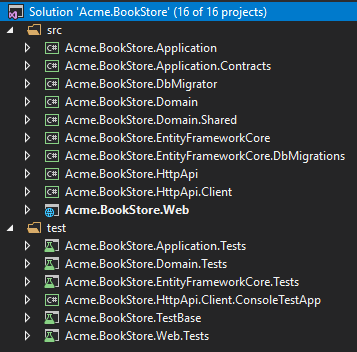
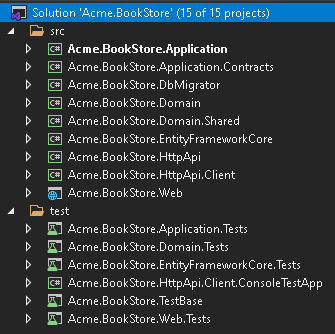
update startup-templates/application documentation
ref ( #9284 )

Changed region(s): [[0.0, 0.0, 1.0, 0.988]]

diff --git a/docs/en/Startup-Templates/Application.md b/docs/en/Startup-Templates/Application.md
@@ -128,20 +128,6 @@ This is the integration project for the EF Core. It defines the `DbContext` and 
 
 > This project is available only if you are using EF Core as the database provider. If you select another database provider, its name will be different.
 
-#### .EntityFrameworkCore.DbMigrations Project
-
-Contains EF Core database migrations for the solution. It has a separated `DbContext` to dedicated to manage migrations.
-
-ABP is a modular framework and with an ideal design, each module has its own `DbContext` class. This is where the migration `DbContext` comes into play and unifies all `DbContext` configurations into a single model to maintain a single database schema. For more advanced scenarios, you can have multiple databases (each contains a single or a few module tables) and multiple migration `DbContext`s  (each maintains a different database schema).
-
-Notice that the migration `DbContext` is only used for database migrations and *not used on runtime*.
-
-* Depends on the `.EntityFrameworkCore` project since it re-uses the configuration defined for the `DbContext` of the application.
-
-> This project is available only if you are using EF Core as the database provider.
->
-> See the [Entity Framework Core Migrations Guide](../Entity-Framework-Core-Migrations.md) to understand this project in details.
-
 #### .DbMigrator Project
 
 This is a console application which simplifies to execute database migrations on development and production environments. When you run this application, it;
@@ -156,7 +142,7 @@ Especially, seeding initial data is important at this point. ABP has a modular d
 
 While creating database & applying migrations seems only necessary for relational databases, this projects comes even if you choose a NoSQL database provider (like MongoDB). In that case, it still seeds initial data which is necessary for the application.
 
-* Depends on the `.EntityFrameworkCore.DbMigrations` project (for EF Core) since it needs to access to the migrations.
+* Depends on the `.EntityFrameworkCore` project (for EF Core) since it needs to access to the migrations.
 * Depends on the `.Application.Contracts` project to be able to access permission definitions, because initial data seeder grants all permissions for the admin role by default.
 
 #### .HttpApi Project
@@ -187,7 +173,7 @@ This project contains the main `appsettings.json` file that contains the connect
 
 * Depends on the `.HttpApi` since UI layer needs to use APIs and application service interfaces of the solution.
 
-> If you check the source code of the `.Web.csproj` file, you will see the references to the `.Application` and the `.EntityFrameworkCore.DbMigrations` projects.
+> If you check the source code of the `.Web.csproj` file, you will see the references to the `.Application` and the `.EntityFrameworkCore` projects.
 >
 > These references are actually not needed while coding your UI layer, because UI layer normally doesn't depend on the EF Core or the Application layer's implementation. This startup templates are ready for the tiered deployment, where API layer is hosted in a separate server than the UI layer.
 >
